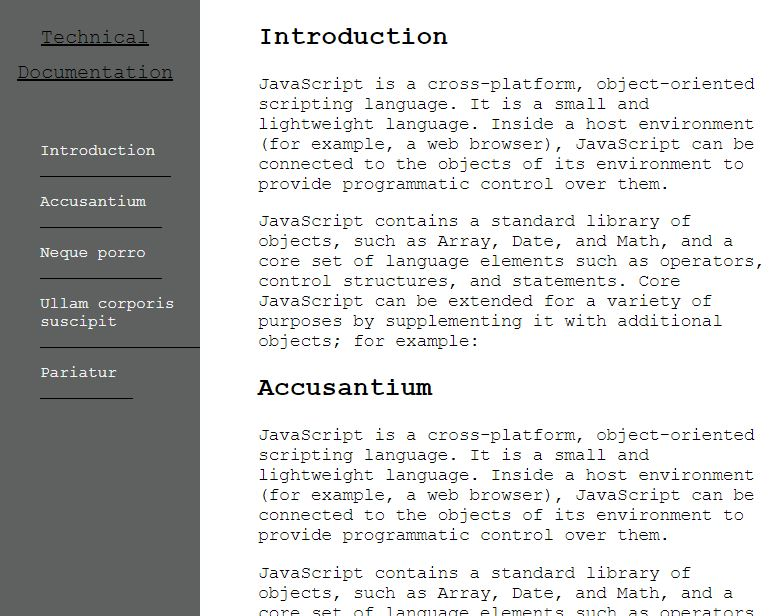
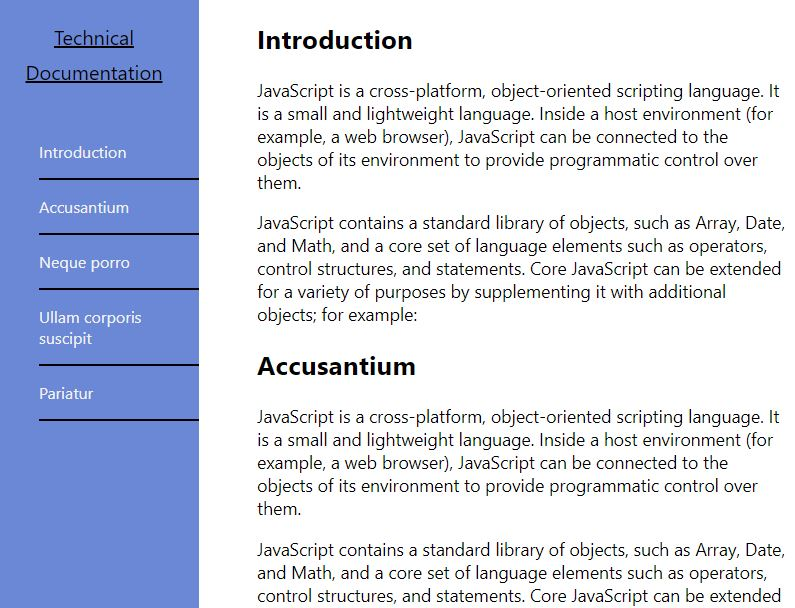
pictures sizing

diff --git a/index.html b/index.html
@@ -29,15 +29,15 @@
         <section class="about-div" id='about'>
             <h1>ABOUT ME</h1>
                 <div class="about-text">
-                    <p>I have always been surrounded by thech people in my life, so in 2019 I started my first steps in coding with Codecademy, Udemy and FreeCodeCamp.
-                    Once I felt more comfortable in the field, was then when I decided to get serious with the programming world, especially web and app developing. 
+                    <p>I have always been surrounded by tech people in my life, so in 2019 I started my first steps in coding with Codecademy, Udemy and FreeCodeCamp.
+                    Once I felt more comfortable in the field, I decided to get serious with the programming world, especially web and app development. 
                     </p>
-                    <p>I recently graduated from Full Stack bootcamp at Barcelona Code School which expanded my knowledge and enlarged it with many new contents. 
-                    It allowed me to create several projects within the course as cloning projects, a fully functional React app and React Native app, between others.</b>
+                    <p>I recently graduated in Full Stack bootcamp at Barcelona Code School which expanded my knowledge and enlarged it with many new contents. 
+                    It allowed me to create several projects within the course as replicating web projects, creating a fully functional React app and React Native app, among others.</b>
                     </p>
-                    <p>I consider myself passionate in developing and eager to keep learning on the road. 
-                    I am curious, observant and patient wich allows me to better understand projects and organize them accordingly with the goals.</p>
-                    <p>In my spare time I like to travel, read & watch SI-FI and walk or cycle through the mountain.</p>
+                    <p>I consider myself passionate in development and eager to keep learning on the road. 
+                    I am curious, observant and patient wich allows me to better understand projects and organize them accordingly with the common goals.</p>
+                    <p>In my spare time I like to travel, read & watch SI-FI and walk or cycle in the mountain.</p>
                     <a href='#about'><b class="cv-link">Download my CV </b></a>
                 </div>      
                 <div>
@@ -46,14 +46,12 @@
                         <li>HTML</li>
                         <li>CSS</li>
                         <li>JAVASCRIPT</li>
+                        <li>GIT</li>
                         <li>REACT</li>
                         <li>REACT NATIVE</li>
                         <li>MONGODB</li>
                         <li>EXPRES</li>
                         <li>NODEJS</li>
-                        <li>NPM</li>
-                        <li>GIT</li>
-                        <li>BASH</li>
                     </ul>
                 </div>
         </section>
@@ -64,7 +62,9 @@
                 <div class="white-box">
                     <h3>Tribute Page</h3>
                     <div>
-                        <img src="work-pictures/Tribute-page-picture.JPG" alt="tribute-page-picture" class="project-img">
+                        <div class="imgbox">
+                        <img src="work-pictures/Tribute-page-picture.JPG" alt="tribute-page-picture" class="project-img">    
+                        </div>                        
                         <div class='project-tile'>
                             <a class="a-tags-link" href="https://github.com/nberdonc/tribute-page" target="_blank" id='profile-link'>code
                                 <i class='fas fa-code' aria-hidden="true"></i>
@@ -78,26 +78,15 @@
                 <div class="white-box">
                     <h3>Survey Form</h3>
                     <div>
-                        <img src="work-pictures/survey-page-picture.JPG" alt="survey-page-picture" class="project-img">
-                        <div class='project-tile'>
-                            <a class="a-tags-link" href="" target="_blank" id='profile-link'>code
-                                <i class='fas fa-code' aria-hidden="true"></i>
-                            </a>
-                            <a class="a-tags-link" href="" target="_blank">demo
-                                <i class='fas fa-globe-americas' aria-hidden="true"></i>
-                            </a>
+                        <div class="imgbox">
+                           <img src="work-pictures/survey-page-picture.JPG" alt="survey-page-picture" class="project-img"> 
                         </div>
-                    </div>
-                </div>
-                <div class="white-box">
-                    <h3>Landing Page</h3>
-                    <div>
-                        <img src="work-pictures/survey-page-picture.JPG" alt="survey-page-picture" class="project-img">
+                        
                         <div class='project-tile'>
-                            <a class="a-tags-link" href="" target="_blank" id='profile-link'>code
+                            <a class="a-tags-link" href="https://github.com/nberdonc/survey-page" target="_blank" id='profile-link'>code
                                 <i class='fas fa-code' aria-hidden="true"></i>
                             </a>
-                            <a class="a-tags-link" href="" target="_blank">demo
+                            <a class="a-tags-link" href="https://nberdonc.github.io/survey-page/" target="_blank">demo
                                 <i class='fas fa-globe-americas' aria-hidden="true"></i>
                             </a>
                         </div>
@@ -106,12 +95,14 @@
                 <div class="white-box">
                     <h3>Documentation Page</h3>
                     <div>
-                        <img src="work-pictures/survey-page-picture.JPG" alt="survey-page-picture" class="project-img">
+                        <div class="imgbox">
+                           <img src="work-pictures/documentation-page.JPG" alt="survey-page-picture" class="project-img"> 
+                        </div>
                         <div class='project-tile'>
-                            <a class="a-tags-link" href="" target="_blank" id='profile-link'>code
+                            <a class="a-tags-link" href="https://github.com/nberdonc/documentation-page" target="_blank" id='profile-link'>code
                                 <i class='fas fa-code' aria-hidden="true"></i>
                             </a>
-                            <a class="a-tags-link" href="" target="_blank">demo
+                            <a class="a-tags-link" href="https://nberdonc.github.io/documentation-page/" target="_blank">demo
                                 <i class='fas fa-globe-americas' aria-hidden="true"></i>
                             </a>
                         </div>
@@ -120,7 +111,8 @@
                 <div class="white-box">
                     <h3>BCS Home Page</h3>
                     <div>
-                        <img src="work-pictures/survey-page-picture.JPG" alt="survey-page-picture" class="project-img">
+                        <div class="imgbox"><img src="work-pictures/survey-page-picture.JPG" alt="survey-page-picture" class="project-img">
+                        </div>                       
                         <div class='project-tile'>
                             <a class="a-tags-link" href="" target="_blank" id='profile-link'>code
                                 <i class='fas fa-code' aria-hidden="true"></i>
@@ -134,7 +126,9 @@
                 <div class="white-box">
                     <h3>Web app</h3>
                     <div>
-                        <img src="work-pictures/survey-page-picture.JPG" alt="survey-page-picture" class="project-img">
+                        <div class="imgbox">
+                         <img src="work-pictures/survey-page-picture.JPG" alt="survey-page-picture" class="project-img">   
+                        </div>
                         <div class='project-tile'>
                             <a class="a-tags-link" href="" target="_blank" id='profile-link'>code
                                 <i class='fas fa-code' aria-hidden="true"></i>
@@ -148,7 +142,9 @@
                 <div class="white-box">
                     <h3>Weather Mobile app</h3>
                     <div>
-                        <img src="work-pictures/survey-page-picture.JPG" alt="survey-page-picture" class="project-img">
+                        <div class="imgbox">
+                        <img src="work-pictures/survey-page-picture.JPG" alt="survey-page-picture" class="project-img">    
+                        </div>                        
                         <div class='project-tile'>
                             <a class="a-tags-link" href="" target="_blank" id='profile-link'>code
                                 <i class='fas fa-code' aria-hidden="true"></i>

diff --git a/style.css b/style.css
@@ -130,25 +130,22 @@ header {
     min-width: 18em;
     max-height: 40em;
     min-height: 15em;
-    background-color: rgb(154, 180, 175);
-    border: 1px solid black;
-    margin-bottom: 1em;
-    box-shadow: -3px 3px  rgb(80, 95, 92);;       
+    background-color: rgb(80, 95, 92); 
+    border-radius: 7px;   
 }
 
-.project-img{
-    height: calc(100% - 6.8rem);
-    width: 100%;
-    object-fit: cover;
+.imgbox {
+    height:100%;
+    width:100%;
+    overflow:hidden;
+}
+.project-img {
+    max-width:100%;
+    max-height: 100%;
 }
 
 .white-box h3{
     margin-left: 1em;
-    border-bottom: 1px solid black;  
-}
-
-.project-img{
-
 }
 
 .project-tile{
